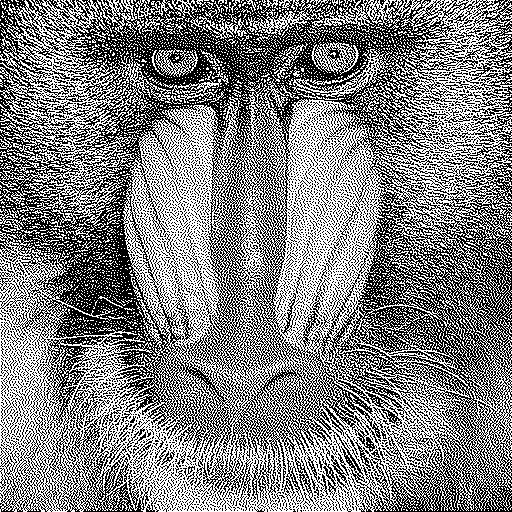
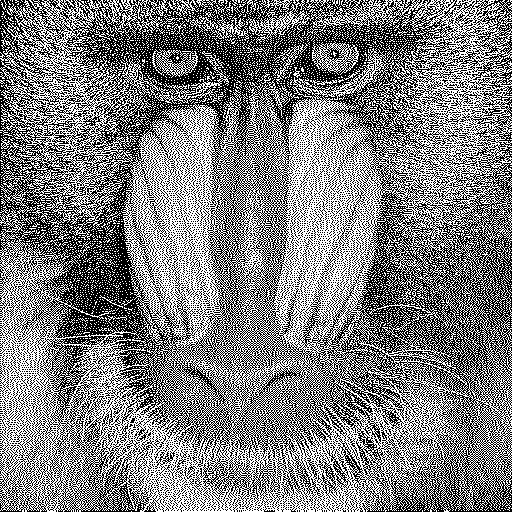
working version with zig-zag

diff --git a/src/halftoning.py b/src/halftoning.py
@@ -6,32 +6,43 @@ import numpy as np
 import cv2
 import time
 
-def sweep(img, mask):
+def sweep(img, mask, sm):
     """
     It applies Floyd and Steinberg technique for error distribution
     The F-S mask is a 2x3 one, so appropriate padding has to be done  
     """
     start = time.time()
     result = np.zeros_like(img)
-    #print(result.shape)
-    #kernel = np.array([[0, 0, 7/16], [3/16, 5/16, 1/16]])
     mask_h, mask_w = mask.shape
     offset = mask_w//2
-    print(mask.shape, offset)
     img_padded = np.pad(img, ((0, mask_h - 1), (mask_w//2, mask_w//2)), 'constant')
-    # print(result.shape)
-
+    masks = (mask, np.flip(mask, 1))
+    direction = 1
     for j in range(img.shape[0]):
-        for i in range(img.shape[1]):
-
-            #result[j][i] = 0 if img_padded[j][i + offset] < 128 else 0
-            if img_padded[j][i + offset] < 128:
+        if direction > 0:
+            beginning = 0
+            end = img.shape[1]
+        else:
+            beginning = img.shape[1] - 1
+            end = 0
+        #print(beginning, end, direction)
+        for i in range(beginning, end, direction):
+            #print(i, img_padded[j][(i + offset)])
+            if img_padded[j][(i + offset)] < 128:
                 result[j][i] = 0
             else:
                 result[j][i] = 1
 
-            error = img_padded[j][i + offset] - result[j][i]*255
-            img_padded[j:j+mask_h, i:i+mask_w] += (mask*error).astype(np.uint8)
+            error = img_padded[j][(i + offset)] - result[j][i]*255
+            if direction > 0:
+                img_padded[j:j+mask_h, i:i+mask_w] = (img_padded[j:j+mask_h, i:i+mask_w] + (error*masks[0])).astype(np.uint8)
+                #print(img_padded)
+            else:
+                #print(img_padded[j:j+mask_h, i: i + mask_w])
+                img_padded[j:j+mask_h, i: i + mask_w] = img_padded[j:j+mask_h, i: i + mask_w] + (error*masks[1]).astype(np.uint8)
+        #print("------------------")
+        direction *= sm
+        #offset *= sm
     result = result*255
 
 
@@ -40,19 +51,7 @@ def sweep(img, mask):
 
     return result
 
-    # for j in range(result.shape[0]):
-    #     np.where(img_padded[j] < 128, print("Oi"), print("Tchau!"))
-    #     result[j] = np.where(img[j] < 128, 0, 1)
-    # result = result*255
-    # print(result)
-    # end = time.time()
-    # print(end - start)
-
-    # return result
-
-
-
-def halftoning(img, err_method=0, sweep_method=0):
+def halftoning(img, err_method=0, sweep_method=1):
     """ 
     halftoning function implements the main algorithm of halftoning to an input image.
 
@@ -67,8 +66,8 @@ def halftoning(img, err_method=0, sweep_method=0):
         5: Jarvis, Judice and Ninke mask
     sweep_method -- how the image is going to be sweeped
     (it affects how the error propagation happens)
-        0 (default): image is sweeped line per line
-        1: image is sweeped line per line, 
+        1 (default): image is sweeped line per line
+        -1: image is sweeped line per line, 
         but at the end of a line it goes to the nearest neighbor in next line
     """
     masks = (np.array([[0, 0, 7/16], [3/16, 5/16, 1/16]]),
@@ -93,6 +92,6 @@ def halftoning(img, err_method=0, sweep_method=0):
     else:
         print("Damn. That's hard.")
 
-    fs = sweep(img, masks[err_method])
+    fs = sweep(img, masks[err_method], sweep_method)
 
     return fs

diff --git a/src/main.py b/src/main.py
@@ -36,18 +36,22 @@ def main():
 
     images = [
         'baboon',
-        'monalisa',
-        'peppers',
-        'watch'
+        #'monalisa',
+        #'peppers',
+        #'watch'
     ]
-    arr = np.array([[1, 200, 189], [244, 5, 6]])
+    arr = np.array([[250, 20, 120, 170, 0, 255, 0], [100, 200, 220, 15, 30, 50, 160]])
 
     for image_name in images:
         image = open_image(image_name)
         image_grayscale = open_image(image_name, 1)
-        #save grayscale image
-        ht = halftoning(image_grayscale, 5, 0)
+        colored_ht = np.zeros_like(image)
+        # colored_ht[:,:,0] = halftoning(image[:,:,0], 0, 1)
+        # colored_ht[:,:,1] = halftoning(image[:,:,1], 0, 1)
+        # colored_ht[:,:,2] = halftoning(image[:,:,2], 0, 1)
+        ht = halftoning(image_grayscale, 2, -1)
         #halftoning(image[:, :, 0], 0)
         save_image(image_name, ht)
+        #save_image(image_name + "_colored", colored_ht)
 
 main()
